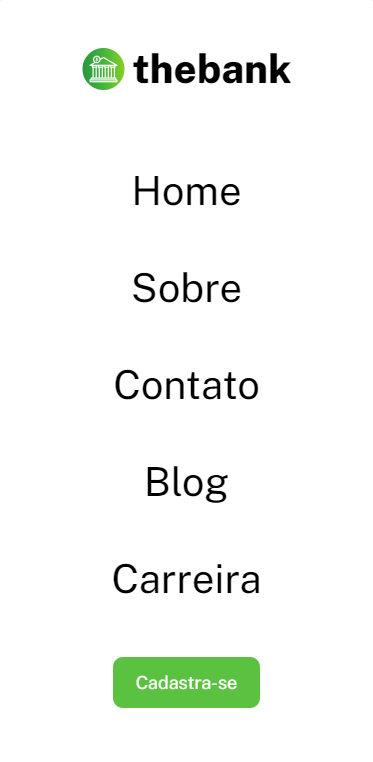
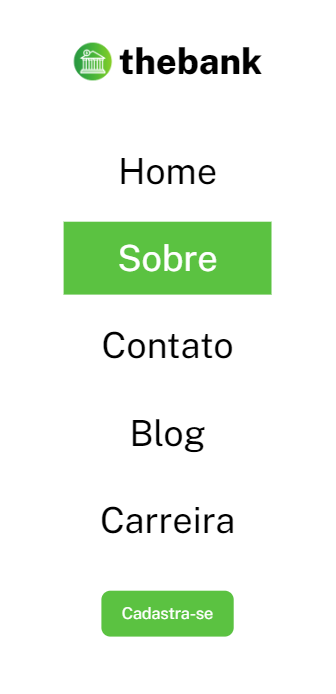
Arquivo README atualizado em screenshots e texto

diff --git a/README.md b/README.md
@@ -3,7 +3,7 @@
 Essa é a solução da realização de um Layout de Menu proposto pelo curso DevQuest.
 
 ## Desafio 
-Criar um header que seja responsivo, para ser aprimorado as habilidades de posicionamento de elementos usando flexbox.
+Criar um header que seja responsivo, para ser aprimorado as habilidades de posicionamento de elementos usando flexbox e mediaqueries para a responsividade em mobile.
 
 ## Screenshots
 
